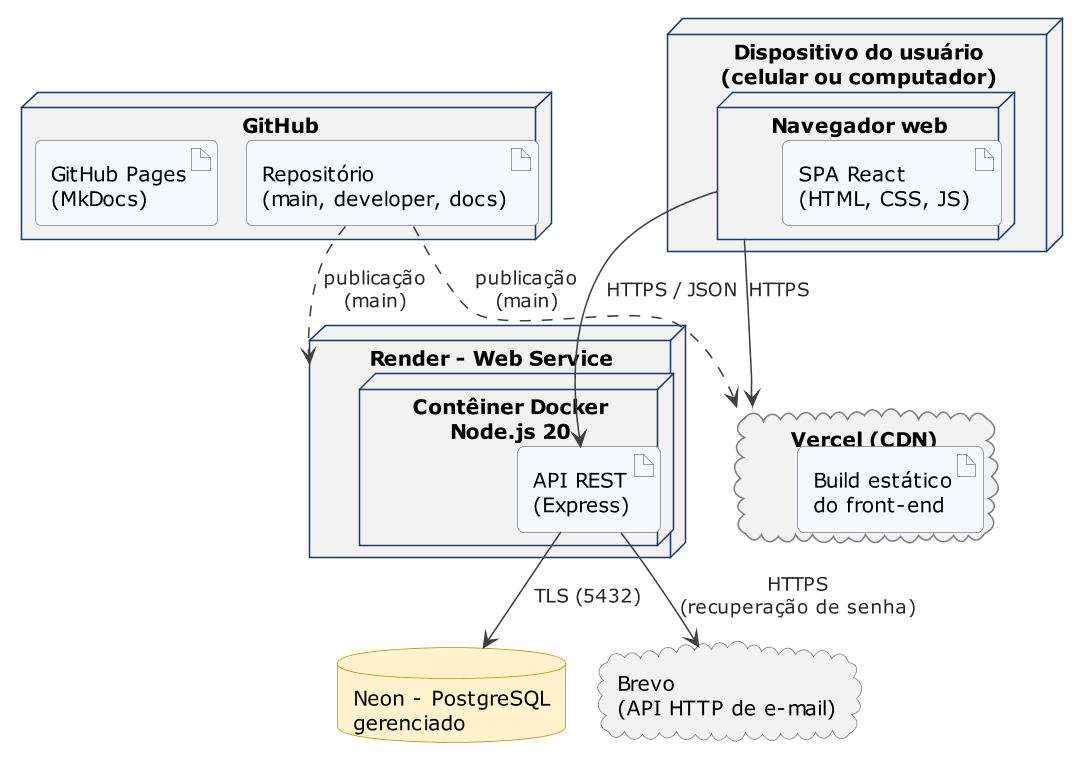
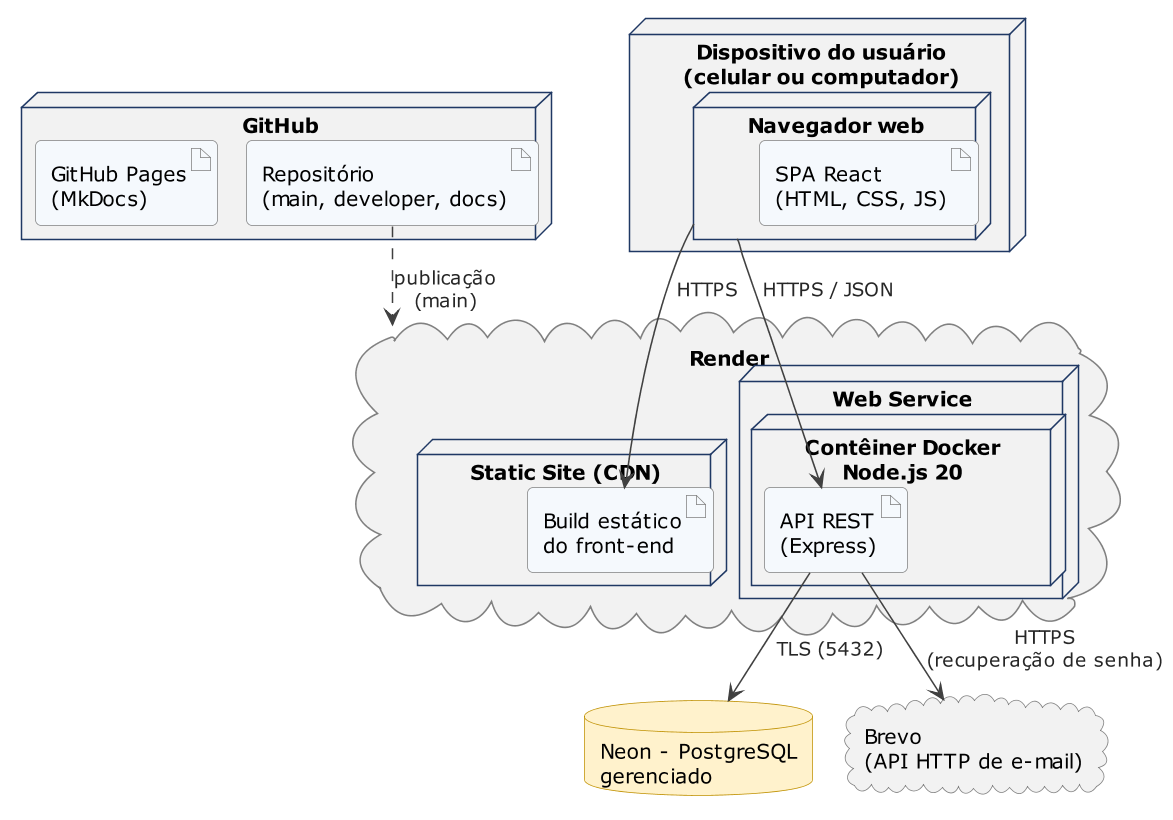
docs(arquitetura): front-end e API no Render, sem a Vercel

Changed region(s): [[0.0, 0.0, 1.0, 0.9896], [0.8804, 0.8396, 0.9108, 0.8696]]

diff --git a/docs/documento-de-arquitetura/v1-1.md b/docs/documento-de-arquitetura/v1-1.md
@@ -23,7 +23,7 @@ Versão 1.1
 | **Data** | **Versão** | **Descrição** | **Autor(es)** |
 | --- | --- | --- | --- |
 | **02/10/2026** | 1.0 | Versão inicial: estilo arquitetural, metas e restrições, visões de uso, lógica, estrutural e de implantação. | Equipe |
-| **14/11/2026** | 1.1 | Revisão após a avaliação do documento, alinhada ao Documento de Visão 1.1 e ao código: e-mail de recuperação de senha pela API HTTP do Brevo, no lugar de SMTP e Nodemailer; Vitest no front-end e no back-end; contrato da API nos esquemas Zod, sem documentação OpenAPI; TDD retirado; meta de desempenho (RNF04) substituída por diretriz, com o efeito da hibernação explicado; critério de cobertura especificado; RNF01, RNF04, RNF05 e WCAG retirados; administração, anotações e avaliação de aulas fora do escopo (módulo admin, rotas, ator Administrador e classe Avaliacao); dependências entre módulos alinhadas ao código (Quadro 6 e Figura 4); regras de negócio atribuídas aos serviços e entidades sem operações (Quadro 1 e Figura 5); finalidade de cada visão delimitada, com menos repetições; rotas conferidas com o código. | Equipe |
+| **14/11/2026** | 1.1 | Revisão após a avaliação do documento, alinhada ao Documento de Visão 1.1 e ao código: e-mail de recuperação de senha pela API HTTP do Brevo, no lugar de SMTP e Nodemailer; Vitest no front-end e no back-end; contrato da API nos esquemas Zod, sem documentação OpenAPI; TDD retirado; meta de desempenho (RNF04) substituída por diretriz, com o efeito da hibernação explicado; critério de cobertura especificado; RNF01, RNF04, RNF05 e WCAG retirados; administração, anotações e avaliação de aulas fora do escopo (módulo admin, rotas, ator Administrador e classe Avaliacao); dependências entre módulos alinhadas ao código (Quadro 6 e Figura 4); regras de negócio atribuídas aos serviços e entidades sem operações (Quadro 1 e Figura 5); finalidade de cada visão delimitada, com menos repetições; rotas conferidas com o código; front-end publicado como site estático no Render, no lugar da Vercel (seção 2.6, Quadros 7 e 8 e Figura 7). | Equipe |
 
 ## 1 Introdução
 
@@ -254,7 +254,7 @@ A SPA consome a interface REST, e toda requisição passa pelos middlewares ante
 
 ### 2.6 Visão de Implantação
 
-Esta visão mostra onde cada parte do sistema roda. O software é implantado em serviços de nuvem com planos gratuitos, o que atende ao critério de custo zero do Documento de Visão (seção 1.4) e permite que o professor e os monitores acessem a aplicação por um endereço HTTP, como exige o plano de ensino para soluções web. O front-end é servido pela Vercel; a API roda em um contêiner Docker no Render; o banco de dados é um PostgreSQL gerenciado no Neon; o e-mail de recuperação de senha é enviado pela API HTTP do Brevo. A Figura 7 apresenta o diagrama de implantação.
+Esta visão mostra onde cada parte do sistema roda. O software é implantado em serviços de nuvem com planos gratuitos, o que atende ao critério de custo zero do Documento de Visão (seção 1.4) e permite que o professor e os monitores acessem a aplicação por um endereço HTTP, como exige o plano de ensino para soluções web. O front-end e a API ficam no Render: o front-end como site estático (Static Site), servido por CDN, e a API em um contêiner Docker (Web Service); o banco de dados é um PostgreSQL gerenciado no Neon; o e-mail de recuperação de senha é enviado pela API HTTP do Brevo. A Figura 7 apresenta o diagrama de implantação.
 
 **Figura 7 –** Diagrama de implantação do AulaCerta
 
@@ -266,7 +266,7 @@ Esta visão mostra onde cada parte do sistema roda. O software é implantado em 
 
 | **Parte** | **Tecnologia** | **Justificativa** |
 |----|----|----|
-| Front-end | Vercel (CDN) | Arquivos estáticos da SPA servidos por CDN, com HTTPS; plano gratuito. |
+| Front-end | Render – Static Site (CDN) | Arquivos estáticos da SPA servidos por CDN, com HTTPS e regra de reescrita que entrega o `index.html` para as rotas do React Router; plano gratuito, sem hibernação. |
 | API REST | Render – Web Service, em contêiner Docker com Node.js 20 | Executa o servidor Express; o Docker garante o mesmo ambiente em desenvolvimento e em produção; plano gratuito, com hibernação após inatividade (seção 2.4). |
 | Banco de dados | Neon – PostgreSQL gerenciado | PostgreSQL com conexão TLS e plano gratuito; suporta a restrição de exclusão usada no RF12 e permite criar um banco separado para os testes. |
 | E-mail | Brevo – API HTTP | Envio do e-mail de recuperação de senha por HTTPS. O plano gratuito do Render bloqueia as portas SMTP, por isso o envio não usa SMTP (risco R09 do Documento de Visão). |
@@ -284,7 +284,7 @@ Os ambientes acompanham a política de branches do Documento de Visão (Quadro 1
 |----|----|----|----|
 | Local | `feature/*`, `fix/*` e `test/*` | Vite (servidor de desenvolvimento) | API local, com banco de desenvolvimento no Neon ou PostgreSQL local pelo Docker Compose |
 | Testes | qualquer branch, na máquina do desenvolvedor | Vite, iniciado pelos testes de sistema | API local, com um banco de teste separado no Neon, apagado a cada execução |
-| Produção | main | Vercel | Render e banco Neon principal |
+| Produção | main | Render – Static Site | Render – Web Service e banco Neon principal |
 
 **Fonte:** Elaborado pela equipe (2026).
 

diff --git a/docs/documento-de-visao/v1-1.md b/docs/documento-de-visao/v1-1.md
@@ -23,7 +23,7 @@ Versão 1.1
 | **Data** | **Versão** | **Descrição** | **Autor** |
 | --- | --- | --- | --- |
 | **30/09/2026** | 1.0 | Versão inicial: visão do produto e do projeto, processo, escopo (backlog), métricas e testes. | Equipe |
-| **14/11/2026** | 1.1 | Revisão após a avaliação do documento e o ponto de controle: TDD, teste de usabilidade (CT11, M1 a M3) e RNF01, RNF04 e RNF05 retirados, com a experiência do usuário mantida como diretriz de projeto; teste de aceitação substituído pela validação dos critérios de aceite pelo P.O.; Figura 2 substituída pelo ciclo de vida Scrum + XP; marcos com datas no Quadro 4 e percentuais atualizados; critério explícito de exposição dos riscos, com recálculo do Quadro 6 e novo risco R09 (planos gratuitos); métricas de negócio (G3: MN1 e MN2); RF20 (anotações), RF21 (avaliação) e RF22 (administração, cenário C07) retirados do escopo do semestre; ferramentas de teste e roteiro de testes atualizados conforme o código (Vitest, Supertest, React Testing Library e Playwright), com o registro das execuções no Quadro 21. | Equipe |
+| **14/11/2026** | 1.1 | Revisão após a avaliação do documento e o ponto de controle: TDD, teste de usabilidade (CT11, M1 a M3) e RNF01, RNF04 e RNF05 retirados, com a experiência do usuário mantida como diretriz de projeto; teste de aceitação substituído pela validação dos critérios de aceite pelo P.O.; Figura 2 substituída pelo ciclo de vida Scrum + XP; marcos com datas no Quadro 4 e percentuais atualizados; critério explícito de exposição dos riscos, com recálculo do Quadro 6 e novo risco R09 (planos gratuitos); métricas de negócio (G3: MN1 e MN2); RF20 (anotações), RF21 (avaliação) e RF22 (administração, cenário C07) retirados do escopo do semestre; ferramentas de teste e roteiro de testes atualizados conforme o código (Vitest, Supertest, React Testing Library e Playwright), com o registro das execuções no Quadro 21; hospedagem do front-end e da API no Render, no lugar da Vercel (Quadro 2). | Equipe |
 
 Este documento registra a visão do produto AulaCerta e do projeto que o desenvolve, no contexto da disciplina FGA0312 – Métodos de Desenvolvimento de Software (UnB/FCTE, 2026/2). Ele reúne o problema tratado, a solução proposta, a organização e o planejamento do projeto, o processo de desenvolvimento, o escopo do produto, as métricas e a estratégia de testes.
 
@@ -130,7 +130,7 @@ A escolha das tecnologias considerou três critérios: aderência ao problema (u
 | Testes | Vitest e Supertest (back-end); Vitest e React Testing Library (front-end); Playwright (sistema) | Cobrem os níveis unitário, de integração e de sistema (ponta a ponta). Front-end e back-end usam a mesma ferramenta de testes, o Vitest. |
 | UX | Heurísticas de Nielsen como diretriz de projeto | Orientam o projeto das telas e dos fluxos; não há teste de usabilidade previsto. |
 | Versionamento e gestão | Git, GitHub e GitHub Projects | Repositório, revisão por pull requests e quadro Kanban das sprints. |
-| Ambiente e implantação | Docker; hospedagem gratuita (ex.: Vercel e Render) | Ambiente padronizado para a equipe e publicação da versão do software. |
+| Ambiente e implantação | Docker; hospedagem gratuita no Render (front-end e API) e no Neon (banco de dados) | Ambiente padronizado para a equipe e publicação da versão do software. |
 | Métodos e técnicas | Scrum, XP, histórias de usuário, MoSCoW, heurísticas de Nielsen | Base do processo descrito nas seções 2.1 e 3. |
 | Comunicação | Microsoft Teams e WhatsApp | Canais já usados pela turma, pelo professor e pelos monitores. |
 
